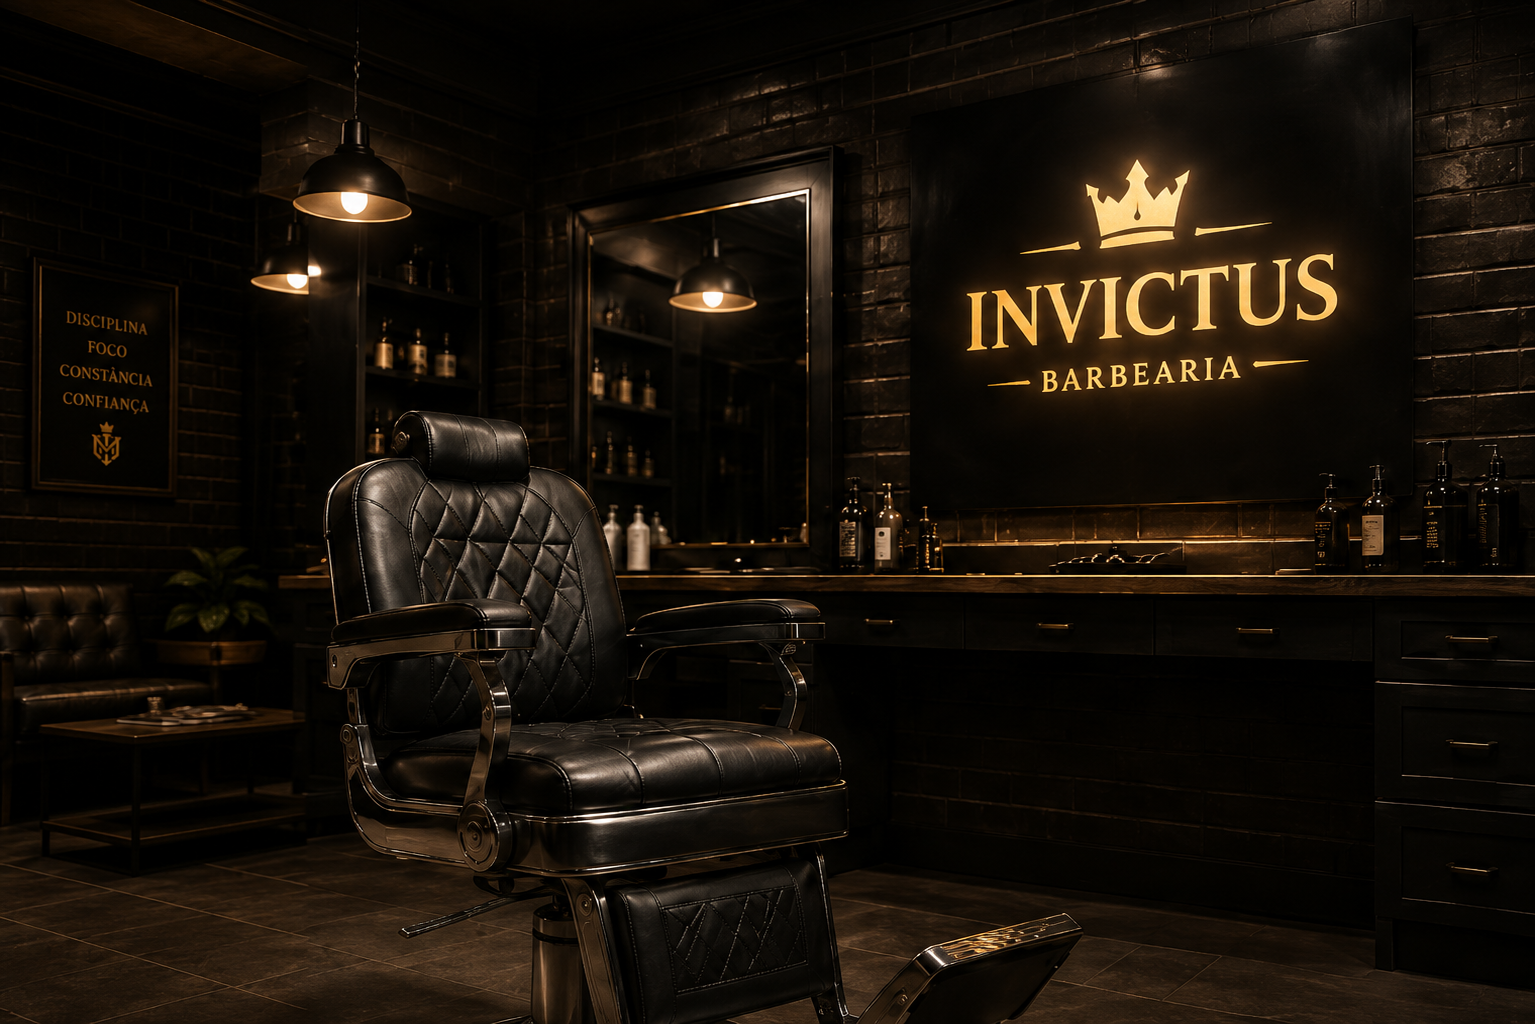
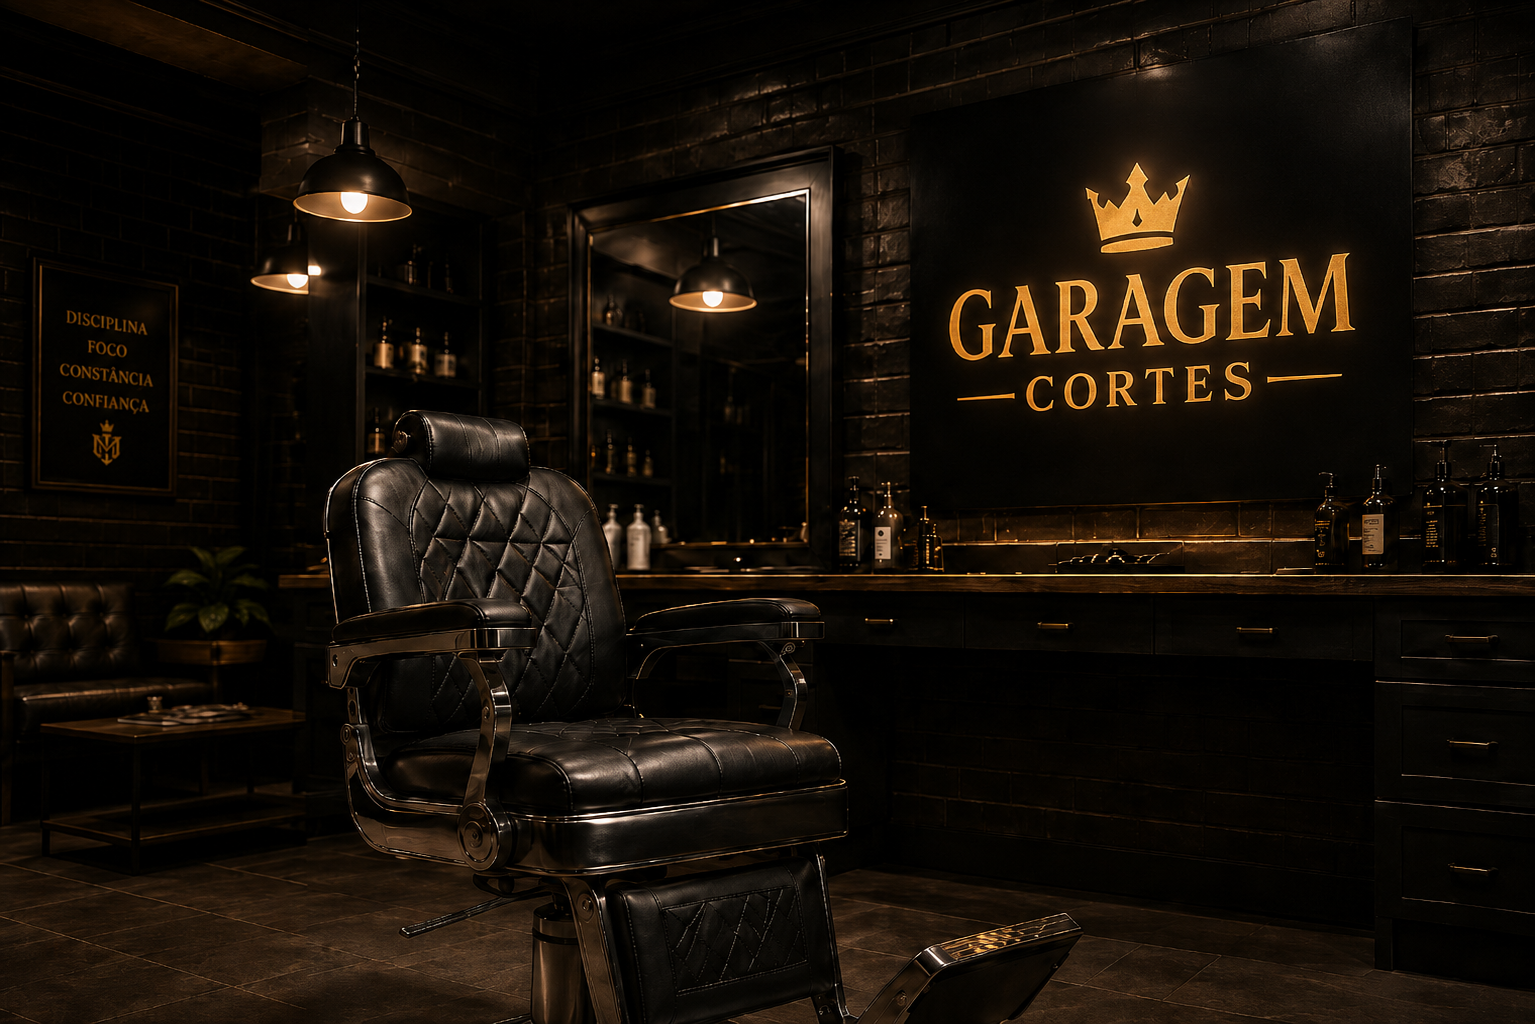
ajeitando

diff --git a/Site-Barbearia/src/Barbearia.jsx b/Site-Barbearia/src/Barbearia.jsx
@@ -116,8 +116,8 @@ const handleSubmit = async (e) => {
       {/* ── INICIO ── */}
       <section id="Inicio" className="InicioSection">
         <div className="Titulo">
-          <h1 className="Invictus">INVICTUS</h1>
-          <h1 className="Barbearia">BARBEARIA</h1>
+          <h1 className="Invictus">GARAGEM</h1>
+          <h1 className="Barbearia">CORTES</h1>
           <div className="TextCoroa">
             <h3 className="FraseInicio">Estilo, atitude e confiança em cada corte</h3>
             <img src="/coroa.png" alt="Coroa" />
@@ -470,8 +470,8 @@ const handleSubmit = async (e) => {
       <div className="FooterContainer">
 
         <div className="FooterInfo">
-          <img className="LogoFooter" src="/Logo1.png" alt="Invictus Barbearia" />
-          <h2 className="NomeFooter">INVICTUS <strong>BARBEARIA</strong></h2>
+          <img className="LogoFooter" src="/Logo1.png" alt="Garagem Cortes" />
+          <h2 className="NomeFooter">GARAGEM <strong>CORTES</strong></h2>
           <p className="TextoFooter">Estilo, tradição e excelência em cada detalhe. Transformando cortes em experiências.</p>
         </div>
 
@@ -503,7 +503,7 @@ const handleSubmit = async (e) => {
 
       </div>
       <div className="LinhaFooter"></div>
-      <div className="CopyFooter">© 2026 Invictus Barbearia — Todos os direitos reservados.</div>
+      <div className="CopyFooter">© 2026 Garagem Cortes — Todos os direitos reservados.</div>
     </footer>
     </>
   )
